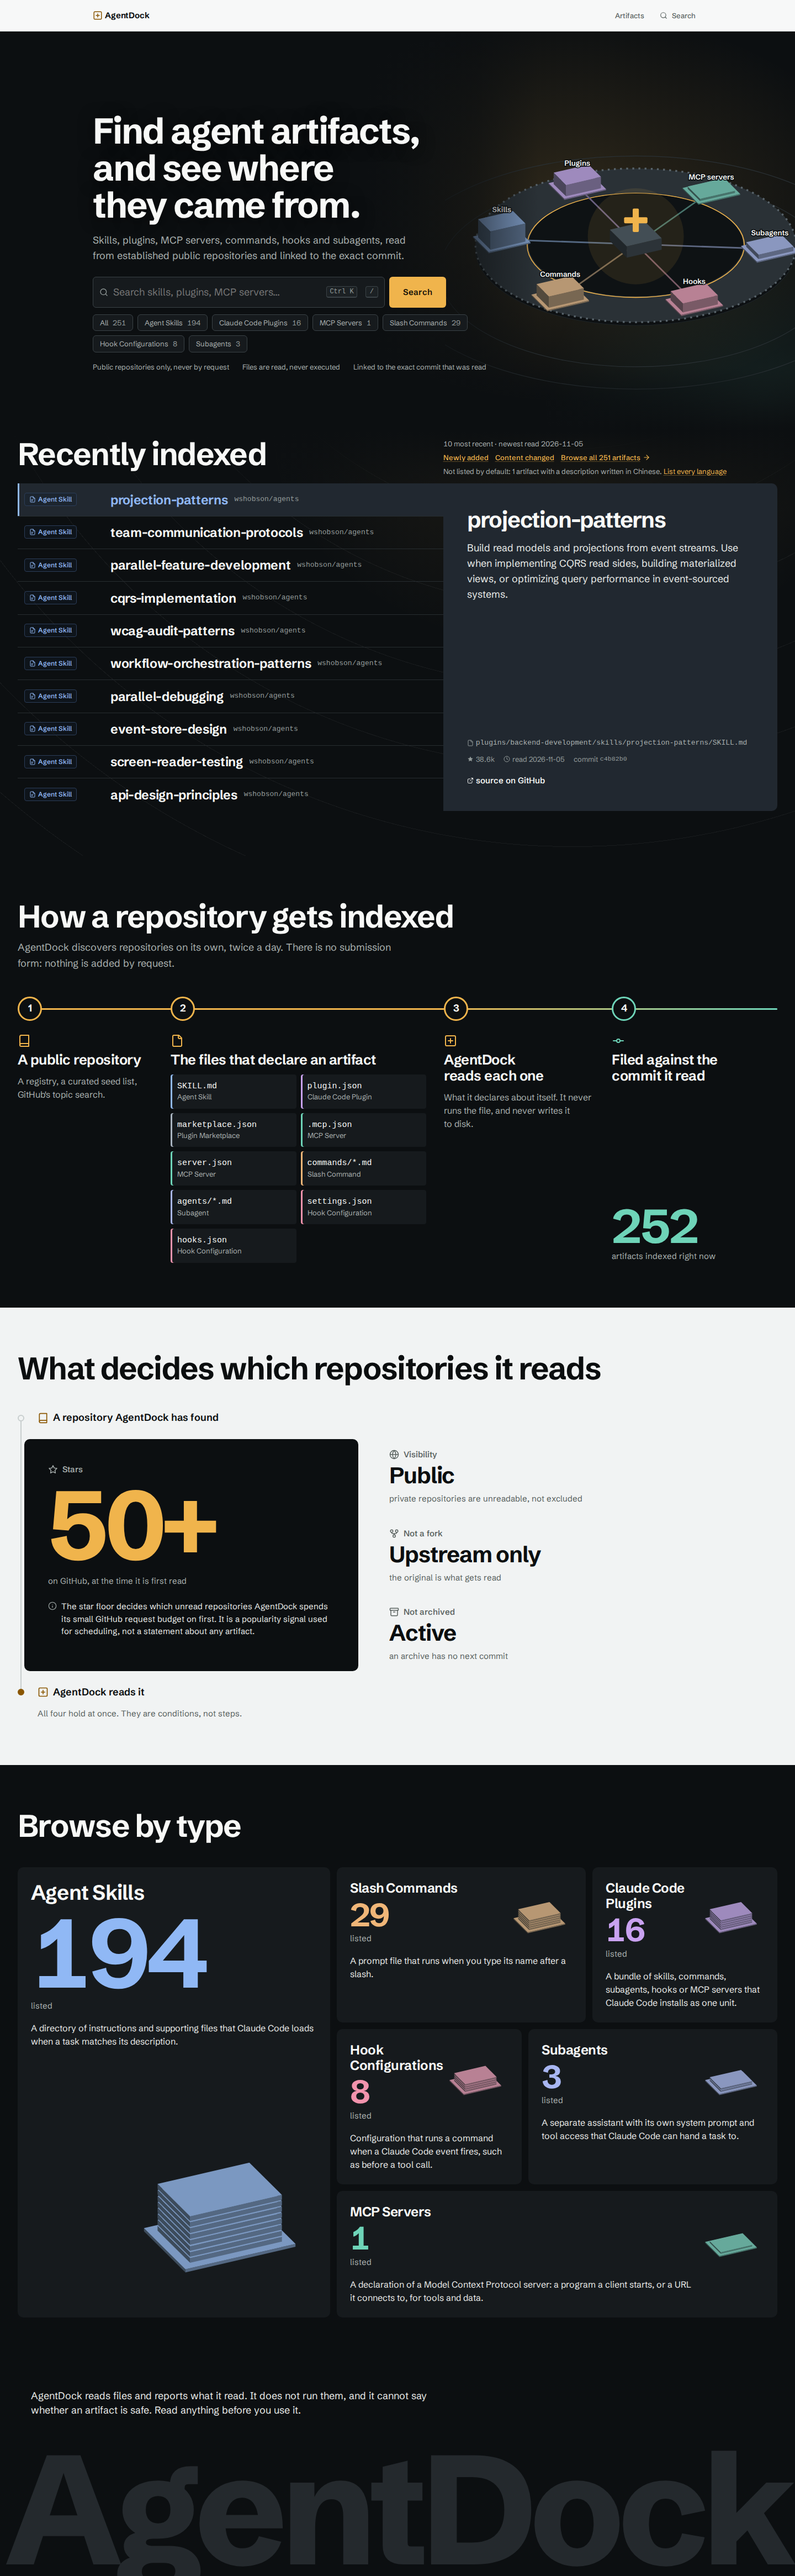
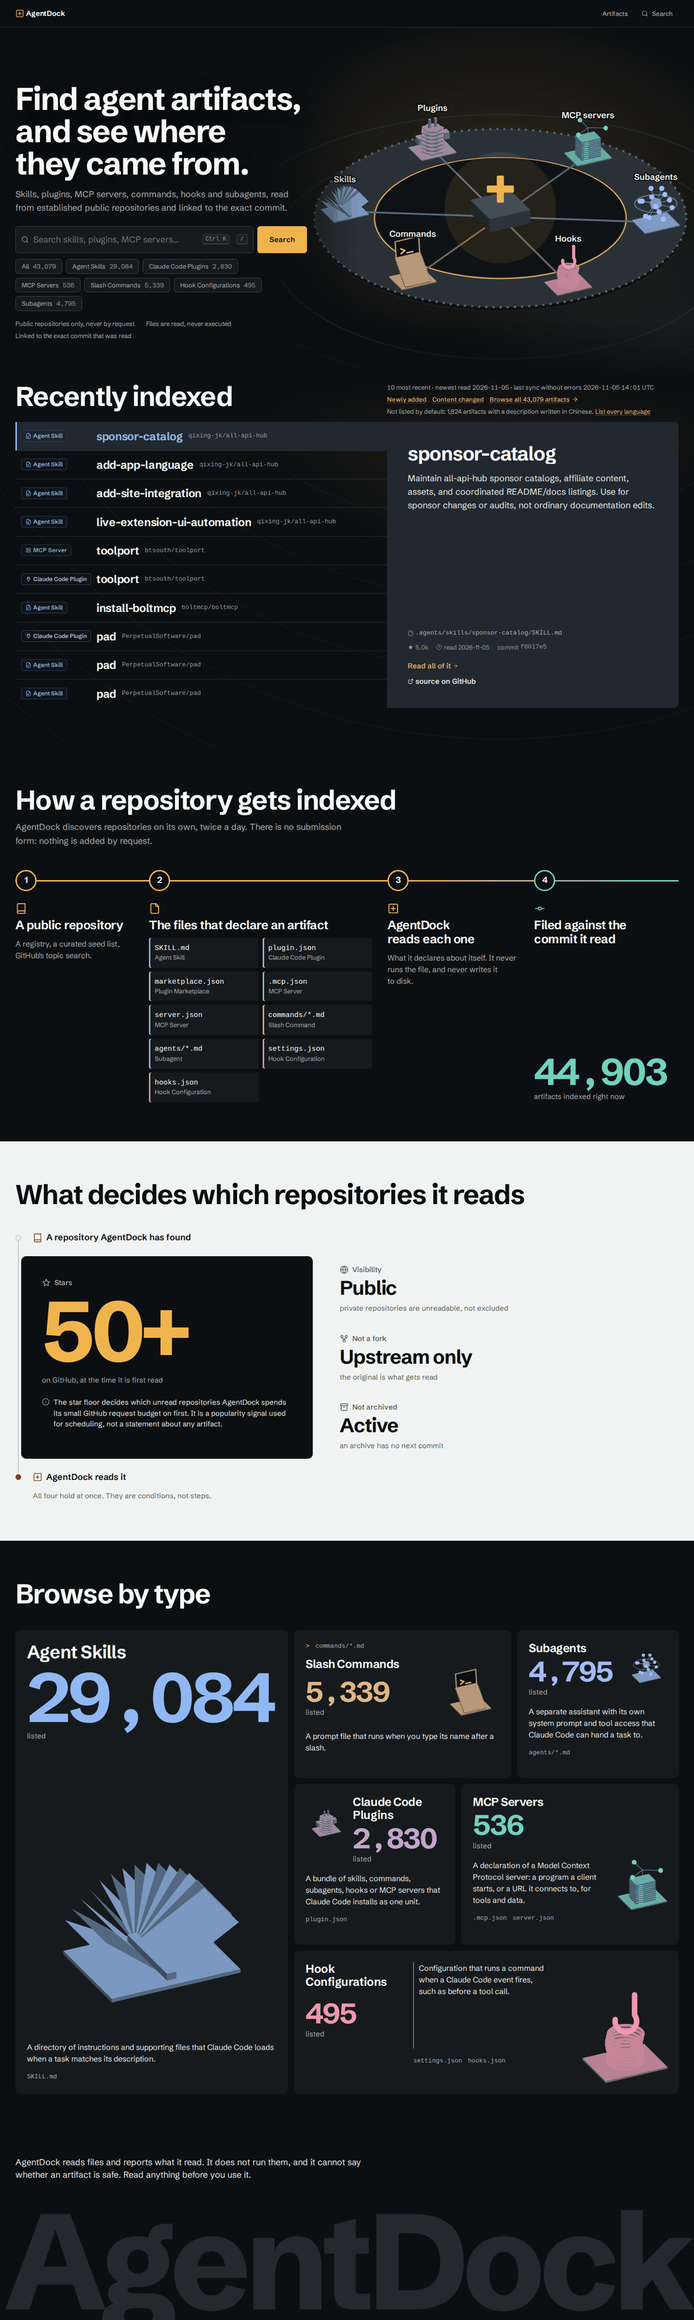
docs(analysis): record the Phase 86–90 release
The report: what was measured before, what changed, the scene on real and software
GPUs, the WebGL context leak, the two CI runs that did not pass first time, and the
read-only checks on production at 65d01d8. Before and after screens, and the README's
two images retaken from production. Documents only.

Changed region(s): [[0.0, 0.2807, 1.0, 0.9669], [0.0, 0.0, 1.0, 0.3119]]

diff --git a/docs/analysis/agentdock-phase86-90-premium-uiux.md b/docs/analysis/agentdock-phase86-90-premium-uiux.md
@@ -1,0 +1,328 @@
+# AgentDock Phase 86–90: Premium Cinematic UI/UX와 Production Release
+
+| 항목 | 값 |
+|---|---|
+| 작성일 | 2026-11-06 (KST) |
+| 브랜치 | `develop` |
+| 이전 HEAD | `03e01c77f58af114026f57a9852bc4062f327600` |
+| 구현 커밋 | `3427f79` (기능), `65d01d8` (GPU 없는 환경의 성능 회귀 수정) |
+| 운영 사이트 | https://agentdock-delta.vercel.app/ |
+| 변경 범위 | 프론트엔드만. DB·Migration·인덱싱·Sync·검색 의미·URL·환경변수 변경 없음. 의존성·client component 추가 없음 |
+
+측정 환경은 별도 표기가 없으면 Intel Graphics (RPL-S) + Vulkan의 실제 GPU, Chromium, 1920×1080, 로컬 production build + 테스트 DB다. "운영"은 실제 사이트를 읽기 전용으로 측정한 값이다.
+
+## 1. 변경 전 문제
+
+브라우저로 7개 해상도(2560, 1920, 1440, 1024, 768, 390, 360)를 DOM 측정했다. 운영 수치는 배포된 `03e01c7`에서 읽었다.
+
+| 문제 | 측정 |
+|---|---|
+| 숫자가 카드 밖으로 잘림 | `29,084`가 카드 경계를 2560에서 138px, 1920에서 100px, 1440에서 87px 넘음 |
+| 시작선 불일치 | 1920에서 Hero·헤더 x=231, 하단 섹션·목록 x=60 |
+| 3D 오브젝트 잘림 | 1920에서 `Subagents 4,79`가 창에 잘림 |
+| 레이블 겹침 | `Hooks 495`가 자기 Hook 뒤로 가려짐 (depth test를 받는 sprite) |
+| 모바일 길이 | Recently Indexed가 390에서 2,672px, 360에서 2,799px. 홈 전체 7,997px |
+| 작은 글씨 | 경로와 코드 11.7px |
+| 터치 영역 | 행 제목 링크 22px (WCAG 2.5.8 기준 24px 미달) |
+| 상세 페이지 | 단일 열. 섹션 링크가 첫 화면과 함께 스크롤되어 사라짐 |
+| 인덱스 수 표기 | CSS counter라 콤마 없이 `44903` (자기 `ponytail:` 주석의 "1만 건 초과 시 삭제" 조건을 이미 넘김) |
+| 긴 설명 | 잘린 설명 전체를 볼 경로가 미리보기에 없음 |
+
+## 2. 디자인 목표
+
+- 그래파이트와 Amber의 정체성을 유지한다.
+- **판 개수 = 실제 수량(log2)** 규칙을 유지한 채, 판의 형태만 종류별로 바꾼다.
+- 사용자의 행동에 반응할 때만 움직인다.
+- 화려함보다 읽기와 탐색을 우선한다. 상세 페이지에 3D를 넣지 않는다.
+- 새 데이터를 만들지 않는다. 화면의 값은 전부 기존 쿼리 결과다.
+
+## 3. 실제 구현
+
+### 공통
+
+- `--gutter` 토큰 하나로 헤더, Hero, 섹션, 목록, 상세, 푸터의 시작선을 맞췄다. 기존 `--wide` 보정은 삭제했다.
+- 헤더를 모든 페이지에서 stage(어두운 바탕)로 통일했다.
+- 경로와 코드의 최소 크기를 13px로 올렸다.
+
+### Browse by Type
+
+- 숫자 크기를 `min(상한, 남은 폭 / (자릿수 × 0.6))`으로 계산한다. 값이 아니라 길이만 읽으므로 7자리 이상도 규칙 추가 없이 맞는다.
+- 타일이 자기 폭에 따라 배치를 바꾸고(`@container`), 종류별로 그림의 위치와 강조가 다르다.
+- 타일에 감지 파일명(`SKILL.md` 등)을 추가했다. `IndexFlow`의 목록을 그대로 재사용한다.
+- Hover, Focus, Press에 종류별로 반응한다. 부채가 펴지고, 모듈이 벌어지고, 코일이 늘어나고, 노드가 커진다.
+
+### Recently Indexed
+
+- 대각선 이동 중 지나친 행이 미리보기를 빼앗던 문제를 CSS 지연(140ms)으로 고쳤다. 잠금이 아니라 지연이라, 다른 행에 머무르면 바뀐다.
+- 미리보기에 전체 내용으로 가는 "Read all of it" 링크를 추가했다. 행 이름과 주소가 같아 `tabIndex={-1}`로 Tab 정지점은 늘리지 않았다.
+- hover가 없거나 좁은 화면에서는 가로 카드 열이다. 모든 사실을 카드에 유지한다.
+
+### Pipeline과 조건
+
+- 조건 문구는 `src/corpus/policy.ts`의 `discoveryRejection`과 대조했고 실제 구현과 일치해 바꾸지 않았다.
+- Pin 구간을 240svh에서 190svh로 줄였다. 선 위를 이동하는 Tracer와 채워지는 정거장을 추가했다.
+- 인덱스 수를 콤마가 있는 실제 텍스트로 바꾸고 카운트업은 삭제했다.
+
+### 목록
+
+- 96rem 이상에서 행을 "이름·설명·경로 / 출처 사실" 2열로 나눴다. 마크업은 그대로라 접근성 트리 순서가 바뀌지 않는다.
+- URL 계약, 정렬, 필터, 페이지네이션은 변경하지 않았다.
+
+### 상세
+
+- 상단에 사실 4개를 요약했다(읽은 커밋, 마지막 읽음, Upstream 변경, GitHub stars). Details의 값과 같다.
+- 왼쪽에 고정 레일을 두고, CSS scroll timeline으로 현재 섹션을 표시한다. Client JS는 0B다.
+- 이름 길이에 따라 제목 크기를 줄인다. 87자 이름으로 확인했다.
+- 복사할 값은 어두운 코드 블록으로, Versions는 세로 선으로, Files는 디렉터리를 흐리게 표시한다.
+
+## 4. 변경 파일
+
+| 파일 | 내용 |
+|---|---|
+| `src/components/DockScene.tsx` | 6종 형상, 허브, DOM 레이블, 적응형 품질, 자원 해제 |
+| `src/components/dockShaders.ts` | Core, Beam, Trail 셰이더 |
+| `src/components/DockBoardStatic.tsx` | 같은 6종의 SVG 형상 |
+| `src/components/dockBoard.ts` | 데이터와 장식의 경계 설명 갱신 |
+| `src/components/IndexFlow.tsx`, `PackageRows.tsx` | 숫자 텍스트화, 감지 파일 export, 미리보기 링크 |
+| `src/app/page.tsx`, `layout.tsx`, `r/[owner]/[repo]/[...path]/page.tsx` | 타일, 헤더, 상세 구조 |
+| `src/app/globals.css` | 토큰, 레이아웃, 반응형, 모션 |
+| `e2e/journeys.spec.ts`, `src/app/motion.test.ts`, `src/components/IndexFlow.test.tsx` | 테스트 |
+| `CLAUDE.md` | 자원 해제 규칙 |
+
+## 5. 화면 비교
+
+| 영역 | 변경 전 | 변경 후 (운영) |
+|---|---|---|
+| Hero | ![](../images/phase86-90/before-1920-hero.png) | ![](../images/phase86-90/after-1920-hero.png) |
+| Browse by Type | ![](../images/phase86-90/before-1920-browse-by-type.png) | ![](../images/phase86-90/after-1920-browse-by-type.png) |
+| 목록 | ![](../images/phase86-90/before-1920-list.png) | ![](../images/phase86-90/after-1920-list.png) |
+| 상세 | ![](../images/phase86-90/before-1920-detail.png) | ![](../images/phase86-90/after-1920-detail.png) |
+| 모바일 전체 | ![](../images/phase86-90/before-390-home-full.png) | ![](../images/phase86-90/after-390-home-full.png) |
+
+그 밖의 화면은 `docs/images/phase86-90/`에 있다. 2560·1920·1440 전체 페이지, 3D Hover와 선택, 검색 focus와 결과, Recently Indexed, Pipeline, 조건, Versions, 390·768, reduced motion이다.
+
+전체 페이지 이미지는 reduced motion 상태로 찍었다. Pin이 없어 긴 페이지를 한 장에 담을 수 있기 때문이다.
+
+화면 녹화는 저장소에 넣지 않았다. 7.5MB이고 이 환경에 압축 도구가 없어서다.
+
+## 6. 3D 변경 사항
+
+| 종류 | 판 하나가 무엇인가 | 고정 부품 |
+|---|---|---|
+| Skills | 부채꼴로 펼친 책장 | 책등, 위에 도는 결정 |
+| Plugins | 번갈아 좁아지는 육각 모듈 | 핀 2개, 양쪽 소켓 |
+| MCP servers | 랙 유닛 | 빛나는 레일, 3개 노드를 도는 암 |
+| Commands | 터미널로 오르는 계단 | 프롬프트가 있는 화면 |
+| Hooks | 코일 한 바퀴 | 갈고리, 코일을 오르는 이벤트 링 |
+| Subagents | 노드 (golden-angle 나선) | 코어, spoke, 궤도 |
+
+- **허브:** 브랜드 기호를 빛나는 코어, 유리 셸, 격자, 짐벌 3개가 감싼다. 빛기둥을 더했다. 선택한 종류의 색으로 변하고 검색 입력에 반응한다.
+- **깊이:** 지수 안개, 궤도 3개와 혜성 빛. 림 라이트는 조명이 아니라 반사 환경의 패널로 넣었다(§9).
+- **레이블:** Sprite를 DOM으로 바꿨다. 항상 장면 앞에 있고 무대 안으로 제한된다. 텍스처 6장도 줄었다.
+- **프레이밍:** 시작선을 맞춰 생긴 폭과 반경 조정으로 링 전체가 화면에 들어온다.
+- **Fallback:** SVG도 같은 6개 실루엣을 그린다. WebGL 없음, Reduced Motion, 좁은 화면, 컨텍스트 손실 경로는 기존 그대로다.
+
+### 이전부터 있던 WebGL 컨텍스트 누수
+
+three.js는 Sprite geometry와 DFG 조회 테이블을 렌더러별이 아니라 페이지당 하나만 둔다. 렌더러마다 그 객체에 `dispose` 리스너를 달고 리스너가 GL 컨텍스트를 쥐어서, 페이지를 다시 방문할 때마다 렌더러가 남았다. 언마운트 시 두 객체를 dispose한다.
+
+처음 측정한 "컨텍스트 1→31"에는 측정 스크립트의 ElementHandle이 캔버스를 잡아 둔 영향이 섞여 있었다. 이를 배제하고 힙 스냅샷으로 유지 경로를 추적해 원인을 확정했다.
+
+| 페이지 복귀 30회 | 수정 전 | 수정 후 |
+|---|---|---|
+| 힙 (10회 간격) | 18.3 → 21.1 → 24.0 → 26.7MB | 18.3 → 18.4 → 18.2 → 18.5MB |
+| 살아 있는 WebGL2 컨텍스트 (10회 간격) | 1 → 11 → 21 → 31 | 1 → 2 → 3 → 4 |
+
+수정 후 값이 측정마다 1씩 늘어나는 것은 측정 쿼리 자체가 결과를 붙들기 때문으로 보인다(추정). 측정을 한 번만 하는 E2E는 복귀 4회 후 2개 이하를 단언하며, 수정 전에는 5개로 실패했다.
+
+## 7. 인터랙션 개선
+
+| 동작 | 내용 |
+|---|---|
+| 3D Hover | 그 Dock만 밝아지고 나머지는 어두워지며, 형상이 열리고 빛기둥이 선다 |
+| 3D 선택 | 카메라 Focus, 패널, 코어 색 변경, 바닥 파동 |
+| 칩 Hover·Focus | 해당 Dock으로 이동. 키보드 경로 유지 |
+| 검색 Focus·입력 | 입자가 허브로 흐르고 빛기둥과 코어가 밝아짐 |
+| Pause | 기존대로 저장되고 유지됨 |
+
+**구현하지 않은 것:** 검색 "실행" 시점의 에너지 흐름은 보이지 않는다. 검색은 네이티브 GET form이라 즉시 이동하는데, 연출 때문에 이동을 지연하지 않았다. 입력 단계의 반응으로 대신한다.
+
+## 8. 반응형 검증
+
+운영 데이터, 7개 해상도. 오버플로 0건, 숫자 잘림·겹침 0건.
+
+| 폭 | 홈 전체 변경 전 | 홈 전체 변경 후 | Skills 숫자 크기 |
+|---|---|---|---|
+| 2560 | 9,219px | 8,760px | 223px |
+| 1920 | 7,146px | 6,845px | 191px |
+| 1440 | 5,978px | 5,703px | 144px |
+| 1024 | 4,769px | 4,695px | 49px |
+| 768 | 6,685px | 5,281px | 42px |
+| 390 | 7,997px | 5,595px | 40px |
+| 360 | 8,258px | 5,682px | 40px |
+
+- Recently Indexed는 390에서 2,672px(운영)에서 626px(테스트 DB)로 줄었다. 표본 설명 길이가 달라 정확히 같은 조건의 비교는 아니다.
+- E2E가 4자리부터 8자리까지(`1,234`~`12,345,678`) 7개 폭에서 숫자의 경계 이탈과 그림 겹침을 검사한다.
+- **줄이지 못한 곳:** 390의 Browse by Type은 1,800px(변경 전)에서 1,807px(변경 후)로 거의 같다. 정보를 빼지 않는 조건에서 타일 6개는 이 정도 길이가 남는다.
+
+## 9. 성능 비교
+
+### 3D, 실제 GPU
+
+| 항목 | 변경 전 | 변경 후 (테스트 DB) | 변경 후 (운영 규모) |
+|---|---|---|---|
+| FPS | 60 | 60 | 60 (2560·1920·1440·1024) |
+| 최악 프레임 | 17ms | 17~18ms | 18~19ms |
+| Draw call / 프레임 | 87 | 97 | 97 |
+| 삼각형 / 프레임 | 42,426 | 41,234 | 63,266 |
+| 점 / 프레임 | 1,293 | 1,293 | 5,673 |
+| 정지 시 draw (3초) | 0 | 0 | 0 |
+| 셰이더 프로그램 | 18 | 24 | 24 |
+| 텍스처 | 16 | 10 | 10 |
+| 버퍼 | 199 | 297 | 297 |
+| 첫 프레임까지 | 측정 안 함 | 약 1.0초 | 측정 안 함 |
+
+Texture Memory, GPU 사용률, Shader Compile 시간은 직접 측정하지 않았다. 대신 텍스처 수와 첫 프레임까지의 시간을 쟀다.
+
+### 3D, GPU 없는 2코어 (SwiftShader, `taskset -c 0,1`, 1280×800)
+
+SwiftShader 수치는 실제 GPU와 비교할 값이 아니라 저사양 환경의 회귀 지표다.
+
+| 구간 | `03e01c7` | `3427f79` | `65d01d8` |
+|---|---|---|---|
+| 진입 직후 FPS | 6.1~7.0 | 4.6 | 6.6 |
+| 안정 구간 FPS | 4.1~6.3 | 3.6 | 6.4 |
+
+`3427f79`는 이 조건에서 느려졌고 CI가 그것을 잡았다(§14). 원인과 수정은 다음과 같다.
+
+- 레이블 크기를 프레임마다 읽어 스타일 재계산을 강제함 → 무대 크기가 바뀔 때 한 번만 측정
+- 림 라이트가 조명을 하나 늘림 → 반사 환경의 패널로 대체
+- 품질 조정이 45프레임마다라 4fps에서 한 단계에 11초 → 1.5초 단위로 판단
+- 소프트웨어 렌더러는 그림자 없이 낮은 해상도로 시작
+
+### 웹 지표 (로컬 3회 중앙값)
+
+| 항목 | 변경 전 | 변경 후 |
+|---|---|---|
+| LCP | 64ms | 72ms |
+| CLS | 0 | 0 |
+| 상호작용 지연 (입력) | 24ms | 32ms |
+| Long Task | 2회, 최대 83ms | 1회, 최대 61ms |
+| 스크롤 FPS | 60 | 60 |
+| 스크롤 중 CPU | 7.0% | 9.8% |
+| JS 힙 | 14.6MB | 13.7MB |
+| DOM 노드 | 1,212 | 1,447 |
+| 3D chunk (gzip) | 249,580B | 252,013B |
+| CSS (gzip) | 12,114B | 14,093B |
+
+운영 3회 중앙값은 LCP 2,692ms, CLS 0, 상호작용 32ms, Long Task 1회(최대 77ms), Hero·스크롤 60fps다. 한국에서 측정했고 응답은 Vercel `iad1`을 거친다. **같은 조건의 변경 전 운영 LCP는 측정하지 않아 비교할 수 없다.** 첫 화면에 필요한 client JS는 변하지 않았고 3D는 별도 chunk이므로 원인이 이번 변경이라는 근거는 없지만, 확인된 것도 아니다.
+
+모바일 렌더링 성능은 수치로 재지 않았다. 폰은 3D를 받지 않고 SVG만 받는다.
+
+## 10. E2E 결과
+
+Production build + 테스트 DB, **71 passed** (변경 전 64). 요구한 18개 시나리오의 대응은 다음과 같다.
+
+| 시나리오 | 검증 |
+|---|---|
+| 홈, 3D 로딩, Dock 선택, 카테고리 | `the dock board` 묶음, 타일 Journey |
+| 검색, 필터, 정렬, 페이지네이션, Query 유지, 뒤로 가기 | 기존 Journey 유지 |
+| 상세 이동, 섹션 탐색, GitHub 링크 | 기존 Journey + 새 레일 Journey |
+| 모바일 | `on a phone` 묶음 + 카드 열 Journey |
+| WebGL Fallback, Reduced Motion | 기존 Journey 유지 |
+| 리소스 정리 | 새 Journey: 복귀 4회 후 살아 있는 컨텍스트 2개 이하 |
+
+새로 추가한 Journey 7개는 다음과 같다. 숫자 길이와 해상도, 대각선 이동, 폰 카드 열, 상세 레일, 상세 요약, 레이블이 무대 안에 있는지, 컨텍스트 누수.
+
+바꾼 기존 테스트는 다음과 같다.
+
+- "each listed once": 이름 링크만 세도록 변경. 미리보기 링크가 같은 주소를 가리키기 때문이다.
+- 카운트업 테스트 2건: 카운트업 삭제에 맞춰 "스타일시트가 숫자를 그리지 않는다"와 "콤마 있는 텍스트"로 교체.
+- 3D Journey: 테스트 예산 120초, 장면 상태 대기 20초. GPU 없는 CI에서 장면을 실제로 돌리기 때문이다.
+
+표준 CI는 boundaries, lint, typecheck, unit을 모두 통과했다. Unit은 1,561 passed, 2 skipped다. skipped 2건은 이번 변경 이전부터 있던 것이다. `client.test.ts`의 잘못된 비밀번호 검사는 테스트 DB가 trust 인증이라 비밀번호 없는 URL에서 건너뛰고, `search.test.ts`의 trigram 저하 검사도 이 환경에서 건너뛴다.
+
+**Visual Regression은 NOT RUN이다.** 이 프로젝트에 자동 도구가 없고, 스크린샷을 직접 비교했다.
+
+## 11. 접근성
+
+| 항목 | 결과 |
+|---|---|
+| axe (wcag2a/aa, 21, 22aa, best-practice) | 1280 light, 390 dark의 5개 경로 + 패널 열림에서 위반 0건 |
+| 키보드 | Tab, Escape, focus 복귀 Journey 통과 |
+| 터치 영역 | 행 이름 22→24px. 문장 안 링크는 WCAG 예외라 그대로 |
+| Reduced Motion | 캔버스 없음, 실행 중 애니메이션 0 (운영 확인) |
+| 숨김 처리 | 3D는 `aria-hidden`. 같은 동작을 칩과 패널로 제공 |
+| 실제 스크린리더 | **PENDING** (자동 검사와 별개) |
+
+Reduced Motion에서는 상세 레일의 현재 섹션 표시가 없다. 프로젝트 규칙상 애니메이션은 no-preference 블록에만 둘 수 있어서다. 링크 자체는 동작한다.
+
+## 12. 코드 리뷰
+
+`pr-review-toolkit:code-reviewer`로 독립 리뷰를 받았다. CRITICAL 0건, IMPORTANT 3건이고 모두 수정 후 재검증했다.
+
+| 등급 | 내용 | 조치 |
+|---|---|---|
+| IMPORTANT | Subagent 코어와 spoke가 노드 중심에서 0.27 위로 어긋남 | 수정 |
+| IMPORTANT | 약 640~680px에서 TOC가 두 줄이 되어 앵커 제목을 가림 | 수정 (64rem 미만 전체 한 줄) |
+| IMPORTANT | 현재 섹션 표시의 `font-weight`가 레이아웃을 흔듦 | 제거, 주석 정정 |
+| 기준 미만 | Hook 링 방향, 무효 `scale`, 미사용 ref, scrim에 가려지는 레이블, 정의되지 않은 `smoothstep`, frustum culling | 수정 |
+
+PR Review Toolkit만 사용했다. CodeWatcher는 사용하지 않았다.
+
+디자인 스킬은 이 세션에 로드된 frontend-design, taste-skill, ui-ux-pro-max, design-system의 지침을 설계에 반영했다. taste-skill의 `draw.mjs`와 `inspect.mjs`는 실행하지 않았다. 기존 정체성을 유지하는 작업이라 새 방향을 뽑을 이유가 없었고, 검증은 자체 DOM 측정과 스크린샷으로 했다.
+
+## 13. 남은 문제
+
+| 항목 | 상태 |
+|---|---|
+| 실기기, Safari, Firefox | PENDING. Chromium만 검증 |
+| 실제 스크린리더 | PENDING |
+| Vercel 서버 로그 | PENDING. 이 환경에 Vercel CLI가 없음. 브라우저에서 5xx·실패 요청 0건만 확인 |
+| 운영 LCP 전후 비교 | PENDING (§9) |
+| 긴 설명 | 카드와 미리보기는 줄임 유지. 전체는 상세 페이지로 이동해서 봄 |
+| 대각선 지연 | `allow-discrete` 미지원 브라우저에서는 즉시 전환 (기존 동작) |
+| 현재 섹션 표시 | scroll timeline 미지원 브라우저에서는 표시 없음, 링크는 동작 |
+| 저사양 | GPU 없는 2코어는 약 6.5fps로 이전 수준이지 쾌적하지 않음 |
+| `THREE.Clock` 경고 | R3F 내부에서 나오는 기존 경고. 콘솔 error 아님 |
+
+## 14. Git 상태
+
+| 커밋 | 내용 | 비고 |
+|---|---|---|
+| `3427f79` | `feat(ui): elevate AgentDock with premium cinematic interactions` | CI e2e 실패, 배포 안 됨 |
+| `65d01d8` | `fix(ui): keep the dock scene light on a machine with no GPU` | 배포됨 |
+| 이 보고서 | `docs(analysis): record the Phase 86–90 release` | 문서와 이미지만 |
+
+첫 push의 CI 실패(run 42076948384)는 GPU 없는 환경의 실제 성능 회귀였다. 재시도로 넘기지 않고 원인을 고쳤다. amend, force push, 이력 재작성은 없다.
+
+## 15. 배포 결과
+
+| 항목 | 값 |
+|---|---|
+| CI | run 42082401349 success (check, database, e2e) |
+| Deploy | run 42086135109 success, 워크플로 내장 smoke PASS |
+| Vercel Deployment | https://agentdock-rf15vkpvk-huni5.vercel.app |
+| GitHub Deployment | 7581963770, production, `65d01d8` |
+| 운영 | https://agentdock-delta.vercel.app/ |
+
+`65d01d8`의 첫 CI는 e2e Job이 `cancelled`였다. E2E는 71건 모두 통과했지만 `playwright install --with-deps`에 8분 39초가 걸려 Job 제한 15분에 닿았다. 워크플로를 바꾸지 않고 같은 커밋에서 해당 Job만 재실행했다. 수동 배포는 하지 않았다.
+
+### 운영 검증 (읽기 전용)
+
+27개 검사 중 26개 통과. 실패 1건은 검사 안에서 일부러 호출한 `/r/nobody/nothing`의 404가 콘솔에 찍힌 것이다. 404 요청을 뺀 8개 경로를 따로 돌렸을 때 콘솔 오류와 실패 요청은 0건이었다.
+
+| 항목 | 결과 |
+|---|---|
+| 홈, 목록, 필터·정렬·페이지 URL, 상세, 저장소 | 200 |
+| 존재하지 않는 페이지 | 404 |
+| 검색 `code review` | 1,747건, 검색어 유지 |
+| 필터, 정렬, 페이지네이션, 뒤로 가기 | Query 유지 |
+| GitHub 링크 | 40자리 commit SHA 기준 |
+| 3D Hero | live, 레이블 6개가 칩 수치와 일치, 선택 동작 |
+| Browse by Type | 7개 해상도에서 `29,084` 포함 잘림 0건 |
+| 수치 | 목록 43,079, 인덱스 44,903, 중국어 제외 1,824 |
+| 콘솔 오류, WebGL 오류, 네트워크 실패, 5xx | 0건 |
+| Reduced Motion | 캔버스 없음, 애니메이션 0 |
+
+운영 DB에 쓰기를 하지 않았고 Sync도 건드리지 않았다.
